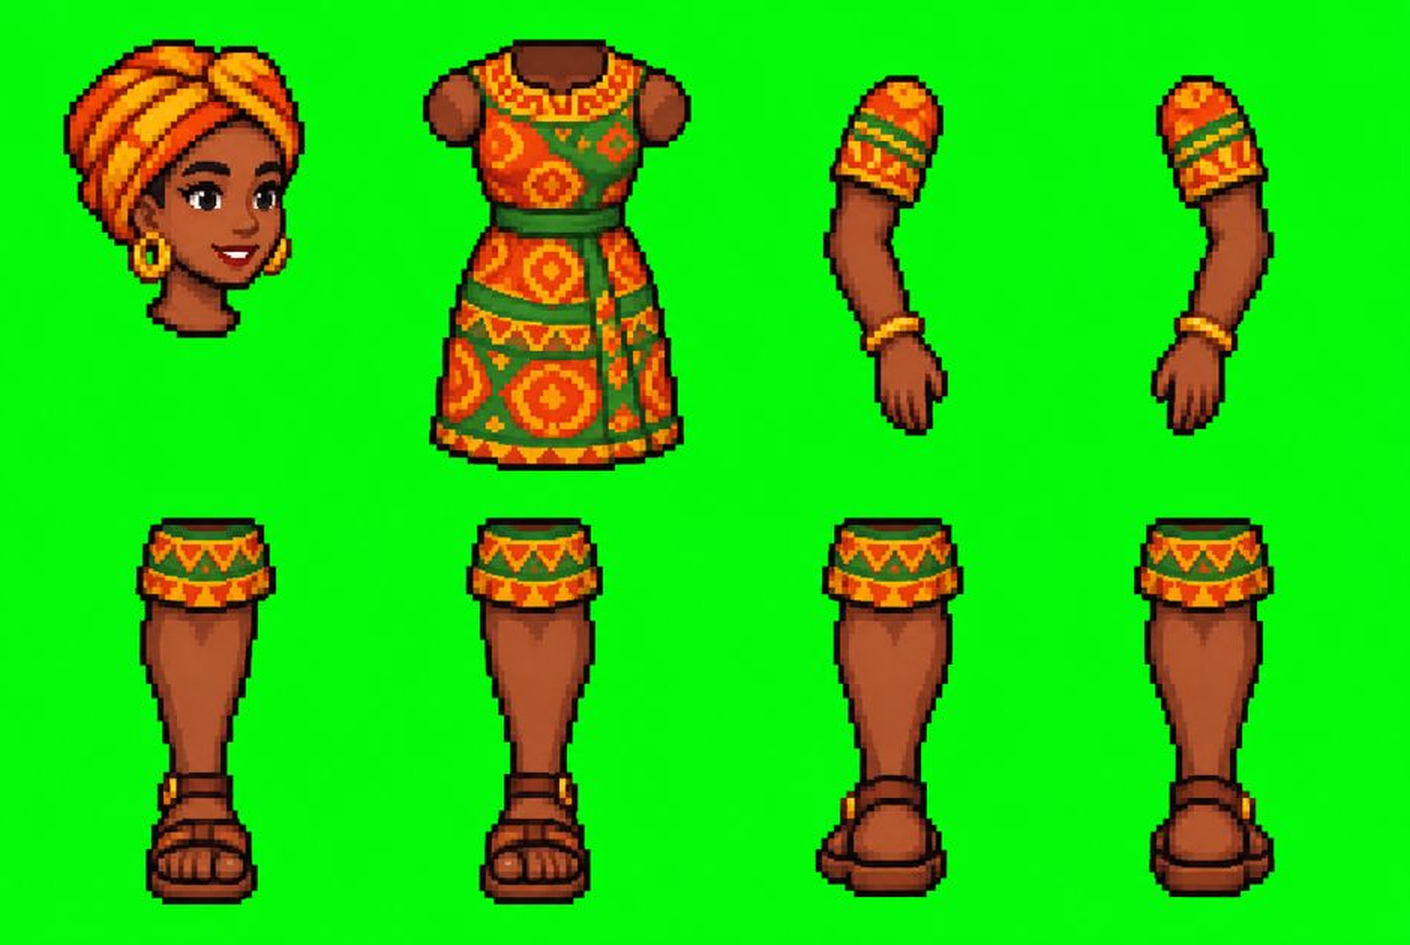
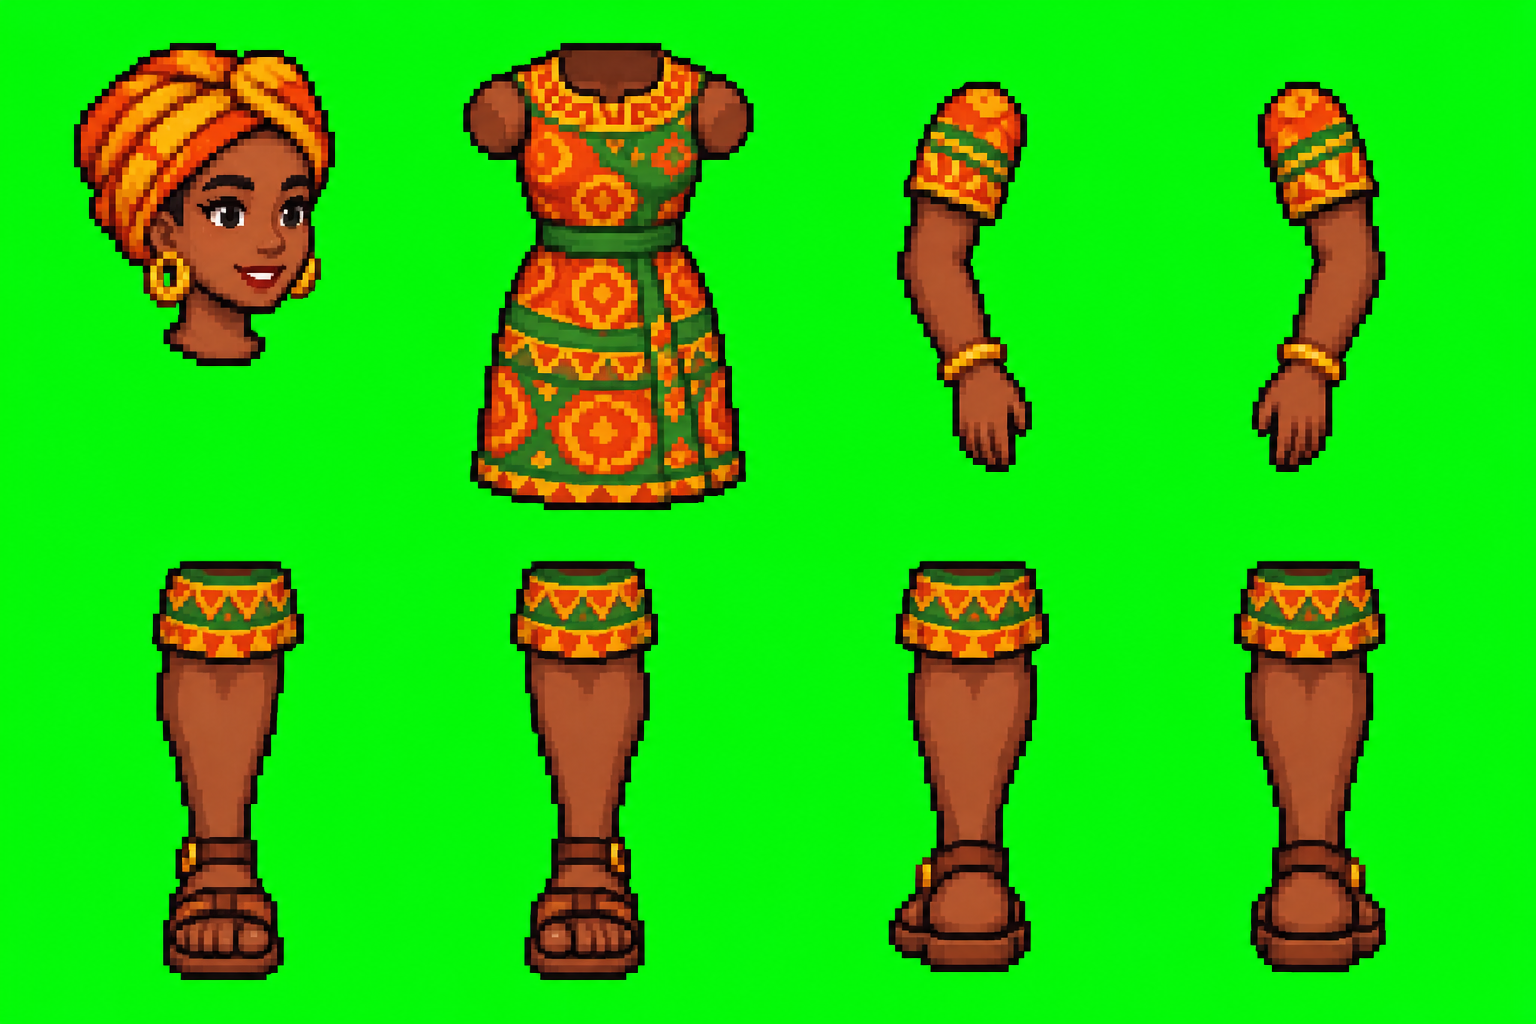
Pizzabaas: Afrikaanse vrouw uit de originele PNG (scherper)
Claude-Session: https://claude.ai/code/session_01A1NZDKEqH4AvFTuhgNYDbP

diff --git a/extra/poppetjes_voor.py b/extra/poppetjes_voor.py
@@ -21,7 +21,7 @@ FIG = {  # nummers = losse vormpjes op het vel (van boven naar beneden, links na
   'studente': dict(voor='pizza/studente-onderdelen-chatgpt.png', benen='pizza/studente-onderdelen-chatgpt.png', hoofd=1, romp=2, arm=(4, 3), been=(5, 6),
                    beenschaal=0.95, achter=(7, 8)),
   'afrikaanse': dict(voor='pizza/afrikaanse-onderdelen-chatgpt.png', benen='pizza/afrikaanse-onderdelen-chatgpt.png', hoofd=1, romp=2, arm=(3, 4), been=(5, 6),
-                     beenschaal=0.75, achter=(7, 8), jurk=True, kapjes=(220, 110, 30)),  # via de ChatGPT-deellink opgehaald (1200x630, vergroot)
+                     beenschaal=0.75, achter=(7, 8), jurk=True, kapjes=(220, 110, 30)),  # originele PNG (eerder via de deellink, 1200x630)
   'chinese2': dict(voor='pizza/chinese2-onderdelen-chatgpt.png', benen='pizza/chinese2-onderdelen-chatgpt.png', hoofd=2, romp=1, arm=(4, 3), been=(5, 6),
                    beenschaal=0.62, achter=(7, 8), jurk=True, kapjes=(200, 30, 28), vlak=True, nek=55),  # tweede versie: de helft van de Chinese dames  # de jurk (romp) loopt tot de knie; de benen zijn knie-tot-schoen
 }
